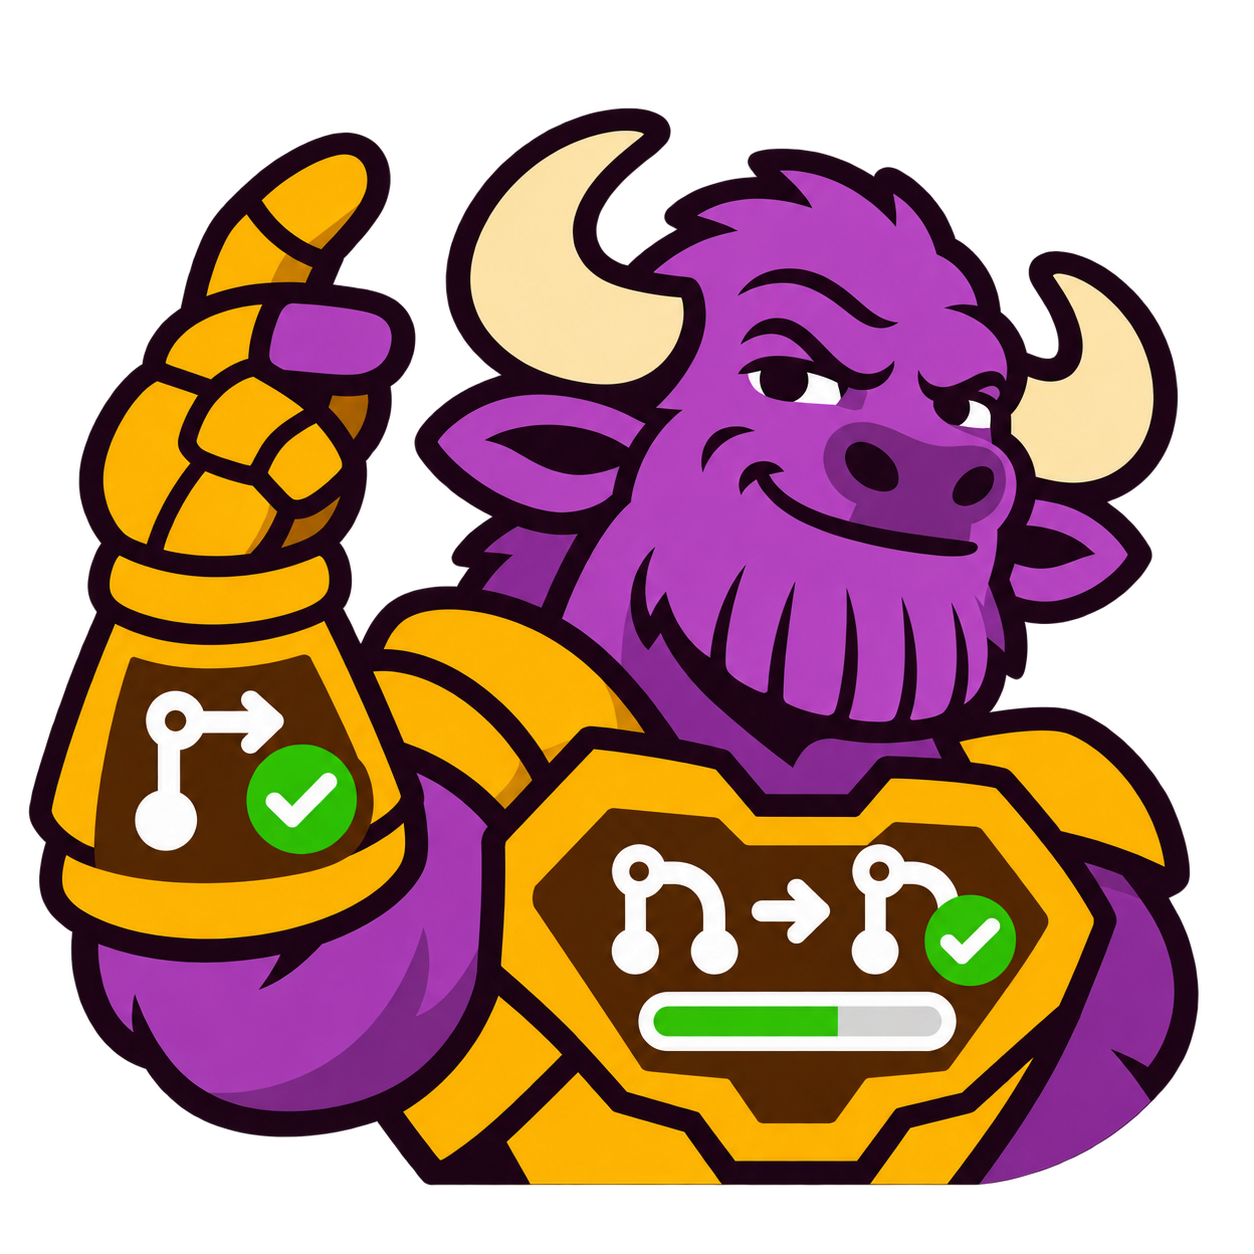
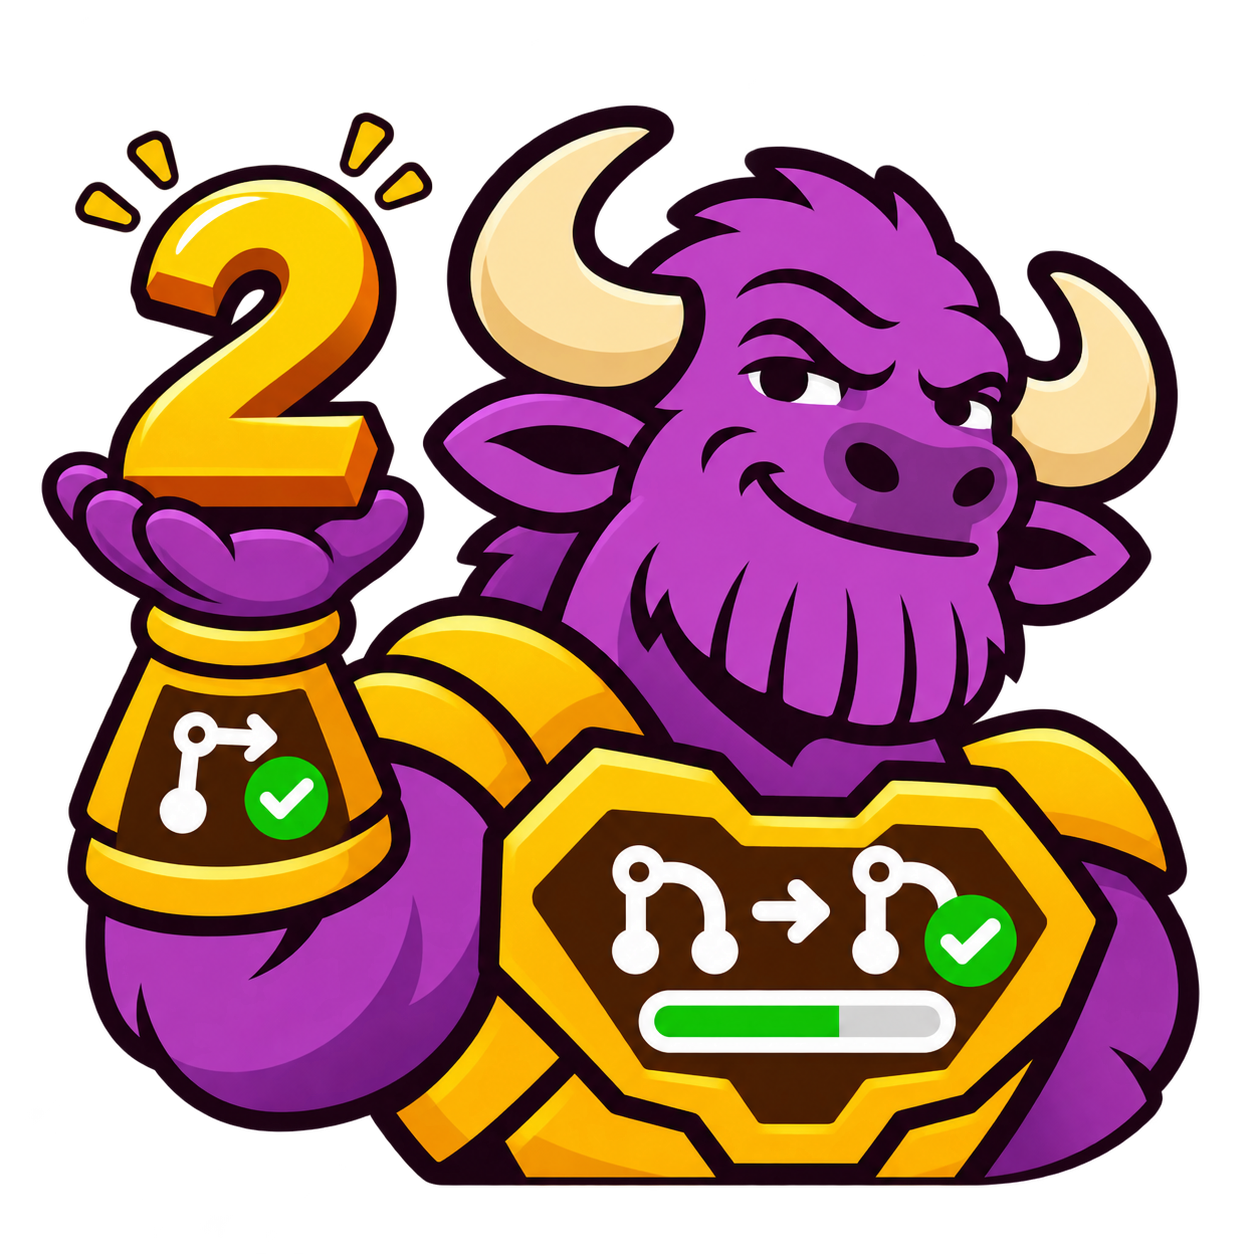
Rename ReciPRocity to IO2; new art (0.5.0)
Display name becomes IO2 ("I owe two": every PR you put up, you owe two
reviews); package, appId, User-Agent and log prefix become i-owe-two.
New title art and icon. No data migration: userData moves to %APPDATA%\IO2.

diff --git a/src/main/main.ts b/src/main/main.ts
@@ -320,12 +320,12 @@ function updateTray() {
   const m = lastTracked;
   if (!m) {
     tray.setImage(trayImage(icon, 'none'));
-    tray.setToolTip('ReciPRocity');
+    tray.setToolTip('IO2');
     return;
   }
   const r = reviewRatio(m.reviewed.count, m.authored.count, superMinReviews(windowDays(m.window)));
   tray.setImage(trayImage(icon, r.status));
-  tray.setToolTip(`ReciPRocity · ratio ${r.display} · ${r.label}`);
+  tray.setToolTip(`IO2 · ratio ${r.display} · ${r.label}`);
 }
 
 function setView(next: View) {
@@ -390,7 +390,7 @@ function rebuildTrayMenu() {
     click: () => setTheme(value),
   });
   const menu = Menu.buildFromTemplate([
-    { label: 'Open ReciPRocity', click: showPanel },
+    { label: 'Open IO2', click: showPanel },
     { label: 'Refresh', enabled: s.hasToken && !!s.settings, click: () => refresh() },
     { type: 'separator' },
     { label: 'Change range…', enabled: s.hasToken, click: () => (setView('start'), showPanel()) },
@@ -413,7 +413,7 @@ function rebuildTrayMenu() {
       click: (item) => (showPanel(), void setRememberTeammates(item.checked)),
     },
     { type: 'separator' },
-    { label: 'Quit ReciPRocity', click: () => app.quit() },
+    { label: 'Quit IO2', click: () => app.quit() },
   ]);
   tray.removeAllListeners('right-click');
   tray.on('right-click', () => tray.popUpContextMenu(menu));
@@ -577,7 +577,7 @@ function registerIpc() {
     const result = await withDialog(() =>
       dialog.showSaveDialog(win, {
         title: 'Export review history',
-        defaultPath: join(app.getPath('documents'), `reciprocity-history-${today()}.csv`),
+        defaultPath: join(app.getPath('documents'), `io2-history-${today()}.csv`),
         filters: [{ name: 'CSV', extensions: ['csv'] }],
       }),
     );

diff --git a/scripts/dev.ts b/scripts/dev.ts
@@ -34,7 +34,7 @@ const nodeBuild = (entry: string, fileName: string, format: 'es' | 'cjs'): Inlin
   },
 });
 
-console.log('[reciprocity] Building...');
+console.log('[i-owe-two] Building...');
 rmSync(dist, { recursive: true, force: true });
 if (process.argv.includes('--clean-release')) rmSync(release, { recursive: true, force: true });
 await build({
@@ -53,7 +53,7 @@ await build({
 });
 await build(nodeBuild(join(src, 'main', 'main.ts'), 'main.js', 'es'));
 await build(nodeBuild(join(src, 'preload', 'preload.ts'), 'preload.cjs', 'cjs'));
-console.log('[reciprocity] Built to dist/.');
+console.log('[i-owe-two] Built to dist/.');
 
 if (!process.argv.includes('--build-only')) {
   // In Node, require('electron') returns the path to the Electron binary, downloading it (and
@@ -67,7 +67,7 @@ if (!process.argv.includes('--build-only')) {
   for (const name of ['ELECTRON_RUN_AS_NODE', 'NODE_OPTIONS', 'NODE_TLS_REJECT_UNAUTHORIZED', 'NODE_EXTRA_CA_CERTS', 'ELECTRON_ENABLE_LOGGING']) {
     delete env[name];
   }
-  console.log('[reciprocity] Starting. Look for the icon in your system tray (or menu bar). Quit from its menu.');
+  console.log('[i-owe-two] Starting. Look for the icon in your system tray (or menu bar). Quit from its menu.');
   const child = spawn(electronBinary, [root], { stdio: 'inherit', env });
   child.on('exit', (code) => process.exit(code ?? 0));
 }

diff --git a/src/renderer/HistoryCard.tsx b/src/renderer/HistoryCard.tsx
@@ -77,7 +77,7 @@ export function HistoryCard({ history, current }: { history: HistoryView; curren
           History
           <span className="metric-note">
             {history.readOnly
-              ? 'Saved by a newer version of ReciPRocity'
+              ? 'Saved by a newer version of IO2'
               : last
                 ? `Last period: ${shortRange(last.from, last.to)}`
                 : 'Builds up as your range rolls over'}
@@ -94,7 +94,7 @@ export function HistoryCard({ history, current }: { history: HistoryView; curren
         <div className="history-body">
           {history.readOnly && (
             <p className="muted small">
-              This history was saved by a newer version of ReciPRocity, so this version leaves it alone. Update the app to see it.
+              This history was saved by a newer version of IO2, so this version leaves it alone. Update the app to see it.
             </p>
           )}
           {history.active && periods.length > 0 && (

diff --git a/src/renderer/App.tsx b/src/renderer/App.tsx
@@ -113,7 +113,7 @@ export function App() {
         {/* The page follows prefers-color-scheme (driven by the theme choice), so the title swaps without any JS. */}
         <picture className="brand">
           <source media="(prefers-color-scheme: dark)" srcSet={titleDark} />
-          <img src={titleLight} alt="ReciPRocity" height={30} />
+          <img src={titleLight} alt="IO2" height={30} />
         </picture>
         <div className="header-actions">
           {state.view === 'metrics' && (
@@ -187,7 +187,7 @@ export function App() {
                 )}
                 <hr />
                 <button role="menuitem" onClick={() => window.sprint.quit()}>
-                  Quit ReciPRocity
+                  Quit IO2
                 </button>
               </div>
             )}

diff --git a/src/main/security.ts b/src/main/security.ts
@@ -64,7 +64,7 @@ const DANGEROUS_SWITCHES = [
 export function refuseDangerousSwitches(): void {
   const found = DANGEROUS_SWITCHES.filter((s) => app.commandLine.hasSwitch(s));
   if (found.length) {
-    console.error(`[reciprocity] Refusing to start with unsafe command-line switches: ${found.map((s) => `--${s}`).join(', ')}`);
+    console.error(`[i-owe-two] Refusing to start with unsafe command-line switches: ${found.map((s) => `--${s}`).join(', ')}`);
     // process.exit is synchronous, so nothing after this call in main.ts (lock, whenReady) gets to run.
     process.exit(1);
   }

diff --git a/src/renderer/TokenForm.tsx b/src/renderer/TokenForm.tsx
@@ -86,7 +86,7 @@ export function TokenForm({ state }: { state: AppState }) {
             and choose <b>Generate new token</b>.
           </li>
           <li>
-            Name it <b>ReciPRocity</b> and pick an expiry (90 days is a good default).
+            Name it <b>IO2</b> and pick an expiry (90 days is a good default).
           </li>
           <li>
             Set <b>Resource owner</b> to the organization (or your own account) whose pull requests you want to see, and{' '}

diff --git a/src/main/github.ts b/src/main/github.ts
@@ -115,7 +115,7 @@ export async function graphql<T>(
         headers: {
           Authorization: `Bearer ${token}`,
           'Content-Type': 'application/json',
-          'User-Agent': 'reciprocity',
+          'User-Agent': 'i-owe-two',
         },
         body: JSON.stringify({ query: doc, variables }),
         redirect: 'error', // never send the token anywhere else

diff --git a/src/renderer/index.html b/src/renderer/index.html
@@ -8,7 +8,7 @@
       http-equiv="Content-Security-Policy"
       content="default-src 'none'; script-src 'self'; style-src 'self'; img-src 'self'; font-src 'self'; connect-src 'none'; object-src 'none'; base-uri 'none'; form-action 'none'"
     />
-    <title>ReciPRocity</title>
+    <title>IO2</title>
   </head>
   <body>
     <div id="root"></div>

diff --git a/src/main/panel.ts b/src/main/panel.ts
@@ -47,7 +47,7 @@ export function createPanel(preload: string, icon: NativeImage): BrowserWindow {
     fullscreenable: false,
     skipTaskbar: true,
     hasShadow: false,
-    title: 'ReciPRocity',
+    title: 'IO2',
     icon,
     webPreferences: {
       preload,

diff --git a/README.md b/README.md
@@ -1,9 +1,11 @@
 <h1>
   <picture>
     <source media="(prefers-color-scheme: dark)" srcset="assets/title-dark.png" />
-    <img src="assets/title-light.png" alt="ReciPRocity" height="80" />
+    <img src="assets/title-light.png" alt="IO2" height="80" />
   </picture>
 </h1>
+
+**IO2: *I owe two*.** Every PR you put up, you owe two reviews.
 
 A small tray app (like JetBrains Toolbox) that shows your GitHub pull-request numbers for your range (a day, a week, a two-week sprint, a month or a year):
 
@@ -32,15 +34,15 @@ Click a number to see its PRs (with how long ago each was opened); click a PR to
 It works for any GitHub account or organization; nothing in it is specific to one team.
 
 > [!IMPORTANT]
-> ReciPRocity was developed largely with the assistance of AI tools. Please read the [Disclaimer](#disclaimer) before you install or use it.
+> IO2 was developed largely with the assistance of AI tools. Please read the [Disclaimer](#disclaimer) before you install or use it.
 
 ## Install
 
 You need **Node.js 22 or newer**.
 
 ```bash
-git clone https://github.com/apreynolds1989/reciprocity.git
-cd reciprocity
+git clone https://github.com/apreynolds1989/i-owe-two.git
+cd i-owe-two
 npm ci
 ```
 
@@ -49,7 +51,7 @@ Then either:
 - **Run it from the repo:** `npm start`. This is handy for developers; everyone else should install it (below), which also gets you the extra hardening of the installed app.
 - **Install it as an app:**
   1. Run `npm run dist`.
-  2. Run the installer it creates in `release/`: `ReciPRocity Setup <version>.exe` on Windows, or the `.dmg` on Mac.
+  2. Run the installer it creates in `release/`: `IO2 Setup <version>.exe` on Windows, or the `.dmg` on Mac.
 
   After that it's in your Start menu (Windows) or Applications (Mac), and you don't need the terminal. Because you built it yourself, Windows and macOS don't show an "unknown app" warning.
 
@@ -60,7 +62,7 @@ Then either:
 The app asks for a GitHub **fine-grained personal access token** with **read-only** access. The app itself only ever reads from GitHub, and it refuses classic tokens because those can have broad access. It can't check a fine-grained token's permissions, though, so keep the token read-only as described below: that limits the damage if it's ever stolen.
 
 1. On GitHub, go to **Settings › Developer settings › Personal access tokens › Fine-grained tokens** and choose **Generate new token**. (Direct link: https://github.com/settings/personal-access-tokens)
-2. Name it **ReciPRocity** and pick an expiry. 90 days is a good default.
+2. Name it **IO2** and pick an expiry. 90 days is a good default.
 3. Set **Resource owner** to the organization, or your own account, whose pull requests you want to see. Set **Repository access** to **All repositories**.
 4. Under **Permissions**, set **Pull requests** to **Read-only**. **Metadata** is added as read-only automatically. Leave everything else as **No access**.
 5. Generate the token, copy it, and paste it into the app.
@@ -110,7 +112,7 @@ Installing a new version over the old one keeps your settings, token and history
 
 ## Removing it
 
-- **Installed app:** uninstall it from Windows Settings › Apps, or drag it out of Applications on Mac. The Windows uninstaller also deletes the app's saved data (including the encrypted token and your history) and the installer copy it keeps in `%LOCALAPPDATA%\reciprocity-updater`.
+- **Installed app:** uninstall it from Windows Settings › Apps, or drag it out of Applications on Mac. The Windows uninstaller also deletes the app's saved data (including the encrypted token and your history) and the installer copy it keeps in `%LOCALAPPDATA%\i-owe-two-updater`.
 - **History:** uninstalling deletes it. To keep a copy, use **⋯ › Export history…** first.
 - **Token:** to switch off its access completely, delete it on GitHub at https://github.com/settings/personal-access-tokens. In the app, **Change token… › Remove the saved token** deletes it from your computer.
 
@@ -151,9 +153,9 @@ Layout:
 
 ## Disclaimer
 
-ReciPRocity was developed largely with the assistance of AI tools. While care has been taken over its design, security and testing, AI-assisted software can contain errors or security weaknesses that aren't immediately apparent.
+IO2 was developed largely with the assistance of AI tools. While care has been taken over its design, security and testing, AI-assisted software can contain errors or security weaknesses that aren't immediately apparent.
 
-The software is provided "as is", without warranty of any kind, as set out in the [LICENSE](LICENSE). Use of ReciPRocity is entirely at your own discretion and risk. Before installing it or giving it a GitHub token, please review the source code and [SECURITY.md](SECURITY.md), and decide whether it meets your own and your organization's requirements. If your organization has policies on third-party or AI-assisted tools, check that using ReciPRocity complies with them.
+The software is provided "as is", without warranty of any kind, as set out in the [LICENSE](LICENSE). Use of IO2 is entirely at your own discretion and risk. Before installing it or giving it a GitHub token, please review the source code and [SECURITY.md](SECURITY.md), and decide whether it meets your own and your organization's requirements. If your organization has policies on third-party or AI-assisted tools, check that using IO2 complies with them.
 
 The maintainer accepts no liability for any loss, damage or other consequences arising from its use.
 

diff --git a/CONTRIBUTING.md b/CONTRIBUTING.md
@@ -1,13 +1,13 @@
-# Contributing to ReciPRocity
+# Contributing to IO2
 
-Thanks for your interest in improving ReciPRocity. Bug reports, suggestions and pull requests are all welcome.
+Thanks for your interest in improving IO2. Bug reports, suggestions and pull requests are all welcome.
 
 This project is maintained on a voluntary, best-effort basis. The maintainer has no obligation to respond to issues, review or accept pull requests, or keep the project maintained. Every change to `main` is merged by the maintainer, at their discretion.
 
 ## Reporting issues
 
 - **Bugs and feature requests:** open an issue using one of the templates.
-- **Security vulnerabilities:** use [private vulnerability reporting](https://github.com/apreynolds1989/reciprocity/security/advisories/new), not a public issue. See [SECURITY.md](SECURITY.md).
+- **Security vulnerabilities:** use [private vulnerability reporting](https://github.com/apreynolds1989/i-owe-two/security/advisories/new), not a public issue. See [SECURITY.md](SECURITY.md).
 - **Never include your GitHub token** in an issue, pull request, screenshot or log.
 
 ## Pull requests
@@ -26,7 +26,7 @@ For anything beyond a small fix, please open an issue first to discuss the chang
 
 ### What will be accepted
 
-ReciPRocity's security model is a core feature (see [SECURITY.md](SECURITY.md)). Changes are unlikely to be accepted if they:
+IO2's security model is a core feature (see [SECURITY.md](SECURITY.md)). Changes are unlikely to be accepted if they:
 
 - need anything beyond a read-only, fine-grained token, or make any change on GitHub
 - add any network destination other than `api.github.com`, or add telemetry, analytics or auto-update

diff --git a/SECURITY.md b/SECURITY.md
@@ -1,6 +1,6 @@
 # Security
 
-ReciPRocity is designed so that the worst realistic outcome of anything going wrong is "someone could read pull-request titles and reviews". It should never be "someone could change code, run commands on my machine, or act as me on GitHub". This page explains how, so you can check before you run it.
+IO2 is designed so that the worst realistic outcome of anything going wrong is "someone could read pull-request titles and reviews". It should never be "someone could change code, run commands on my machine, or act as me on GitHub". This page explains how, so you can check before you run it.
 
 ## Your GitHub token
 
@@ -112,6 +112,6 @@ The maintainer accepts no liability for how this option is used, or for any cons
 
 ## Reporting a problem
 
-Please report security vulnerabilities privately, using GitHub's private vulnerability reporting (**Security** tab › [**Report a vulnerability**](https://github.com/apreynolds1989/reciprocity/security/advisories/new)). Don't open a public issue for them. Bugs that don't put users at risk can go in a normal issue.
+Please report security vulnerabilities privately, using GitHub's private vulnerability reporting (**Security** tab › [**Report a vulnerability**](https://github.com/apreynolds1989/i-owe-two/security/advisories/new)). Don't open a public issue for them. Bugs that don't put users at risk can go in a normal issue.
 
 This project is maintained on a voluntary, best-effort basis. The maintainer has no obligation to respond to issues, accept contributions, provide fixes or keep the project maintained, and may stop doing so at any time. It is provided as-is, as set out in the [LICENSE](LICENSE).
